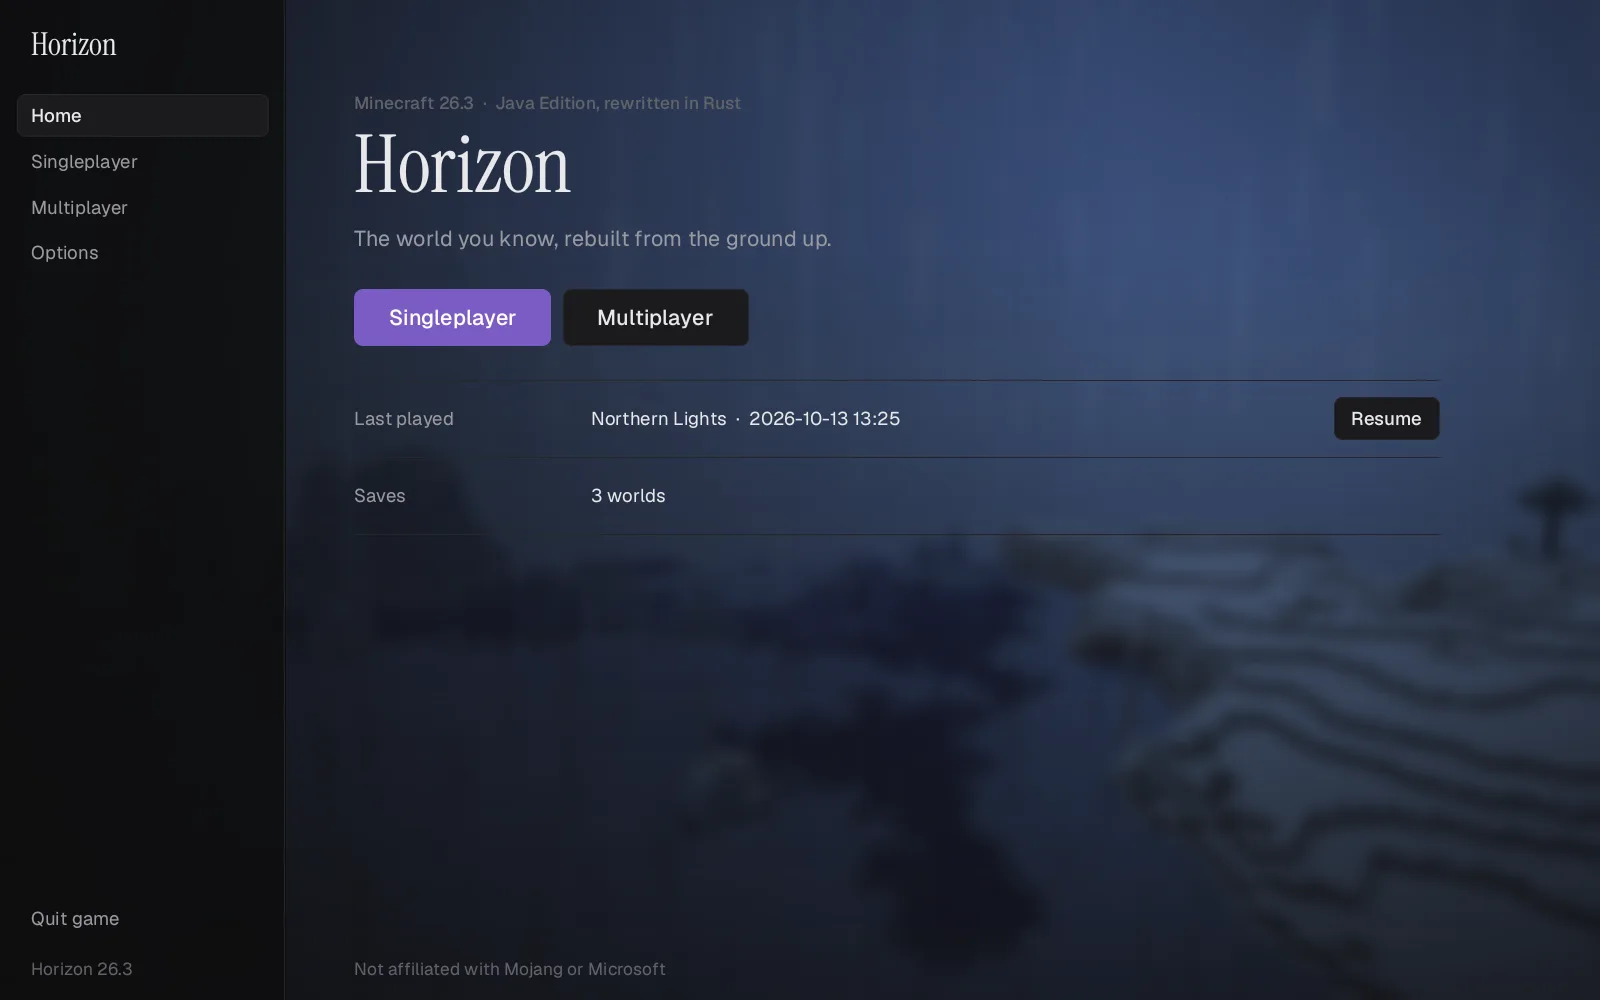
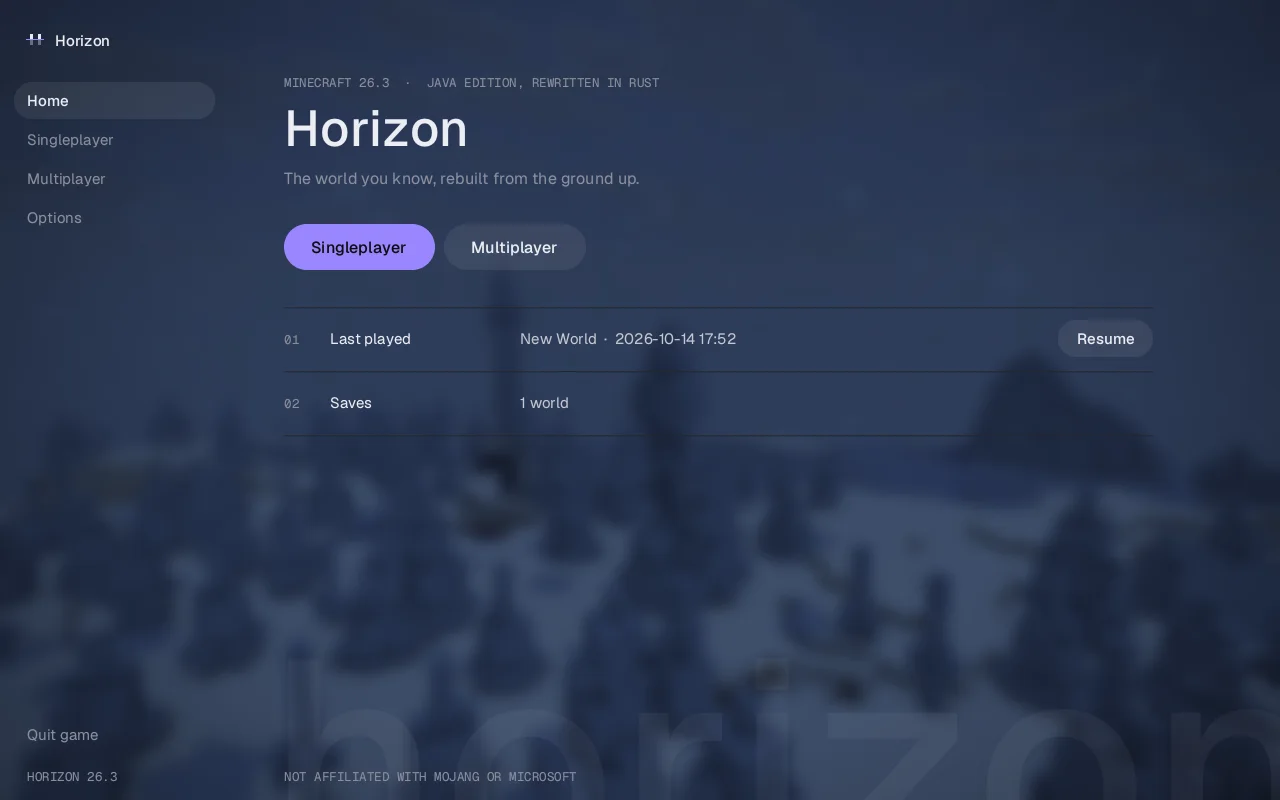
Show the new launcher and menus on the website and in the README
The README banner is redrawn in the new design (docs/media/banner.html), and the launcher and
menu screenshots (README and website) are the restyled ones. The website's launcher section
gains a Launcher tab: its screenshots no longer show the old background, whose licence was
never confirmed.

diff --git a/website/src/index.html b/website/src/index.html
@@ -175,18 +175,20 @@
           <div class="screens reveal-media">
             <div class="tabs" role="tablist" aria-label="Horizon's menus">
               <span class="tab-pill" aria-hidden="true"></span>
-              <button type="button" role="tab" id="tab-title" aria-controls="screen-title" aria-selected="true">Title</button>
+              <button type="button" role="tab" id="tab-launcher" aria-controls="screen-launcher" aria-selected="true">Launcher</button>
+              <button type="button" role="tab" id="tab-title" aria-controls="screen-title" aria-selected="false" tabindex="-1">Title</button>
               <button type="button" role="tab" id="tab-worlds" aria-controls="screen-worlds" aria-selected="false" tabindex="-1">Worlds</button>
               <button type="button" role="tab" id="tab-settings" aria-controls="screen-settings" aria-selected="false" tabindex="-1">Settings</button>
               <button type="button" role="tab" id="tab-pause" aria-controls="screen-pause" aria-selected="false" tabindex="-1">Pause</button>
             </div>
             <div class="screen">
-              <div class="screen-panel is-active" role="tabpanel" id="screen-title" aria-labelledby="tab-title"><img loading="lazy" decoding="async" src="/media/menu-title-800.webp" srcset="/media/menu-title-800.webp 800w, /media/menu-title.webp 1600w" sizes="(min-width: 1000px) 720px, 92vw" width="1600" height="1000" alt="Horizon's title screen: a sidebar, the Horizon title, Singleplayer and Multiplayer buttons and the last world played, over a blurred frozen landscape"></div>
-              <div class="screen-panel" role="tabpanel" id="screen-worlds" aria-labelledby="tab-worlds"><img loading="lazy" decoding="async" src="/media/menu-worlds-800.webp" srcset="/media/menu-worlds-800.webp 800w, /media/menu-worlds.webp 1600w" sizes="(min-width: 1000px) 720px, 92vw" width="1600" height="1000" alt="The Singleplayer page: three worlds with their dates and game modes, and Create world and Play buttons"></div>
-              <div class="screen-panel" role="tabpanel" id="screen-settings" aria-labelledby="tab-settings"><img loading="lazy" decoding="async" src="/media/settings-800.webp" srcset="/media/settings-800.webp 800w, /media/settings.webp 1600w" sizes="(min-width: 1000px) 720px, 92vw" width="1600" height="1000" alt="The Video settings in their Simple view: a preset, render distance, field of view, framerate, VSync and GUI scale, each with what it costs"></div>
-              <div class="screen-panel" role="tabpanel" id="screen-pause" aria-labelledby="tab-pause"><img loading="lazy" decoding="async" src="/media/menu-pause-800.webp" srcset="/media/menu-pause-800.webp 800w, /media/menu-pause.webp 1600w" sizes="(min-width: 1000px) 720px, 92vw" width="1600" height="1000" alt="The pause screen of the world Glacier Pass, with Back to game, Open to LAN and Save and quit"></div>
+              <div class="screen-panel is-active" role="tabpanel" id="screen-launcher" aria-labelledby="tab-launcher"><img loading="lazy" decoding="async" src="/media/launcher-800.webp" srcset="/media/launcher-800.webp 800w, /media/launcher.webp 1280w" sizes="(min-width: 1000px) 720px, 92vw" width="1280" height="800" alt="The launcher's Play page: the version, Client and Server, the version picker and Play, the prepared resources and the Minecraft folder as a numbered list"></div>
+              <div class="screen-panel" role="tabpanel" id="screen-title" aria-labelledby="tab-title"><img loading="lazy" decoding="async" src="/media/menu-title-800.webp" srcset="/media/menu-title-800.webp 800w, /media/menu-title.webp 1280w" sizes="(min-width: 1000px) 720px, 92vw" width="1280" height="800" alt="Horizon's title screen: the mark and the pages on the left, the Horizon title, Singleplayer and Multiplayer, the last world played, over a veiled snowy landscape"></div>
+              <div class="screen-panel" role="tabpanel" id="screen-worlds" aria-labelledby="tab-worlds"><img loading="lazy" decoding="async" src="/media/menu-worlds-800.webp" srcset="/media/menu-worlds-800.webp 800w, /media/menu-worlds.webp 1280w" sizes="(min-width: 1000px) 720px, 92vw" width="1280" height="800" alt="The Singleplayer page: the worlds as a numbered list with their dates and game modes, and Create world and Play"></div>
+              <div class="screen-panel" role="tabpanel" id="screen-settings" aria-labelledby="tab-settings"><img loading="lazy" decoding="async" src="/media/settings-800.webp" srcset="/media/settings-800.webp 800w, /media/settings.webp 1280w" sizes="(min-width: 1000px) 720px, 92vw" width="1280" height="800" alt="The Video settings in their Simple view: a preset, render distance, field of view, framerate, VSync and GUI scale, each with what it costs"></div>
+              <div class="screen-panel" role="tabpanel" id="screen-pause" aria-labelledby="tab-pause"><img loading="lazy" decoding="async" src="/media/menu-pause-800.webp" srcset="/media/menu-pause-800.webp 800w, /media/menu-pause.webp 1280w" sizes="(min-width: 1000px) 720px, 92vw" width="1280" height="800" alt="The pause screen of a world, with Back to game, Open to LAN and Save and quit"></div>
             </div>
-            <p class="screen-caption">Horizon's own menus, in the game. The launcher opens them, or vanilla's.</p>
+            <p class="screen-caption">The launcher, and Horizon's own menus in the game. The launcher opens them, or vanilla's.</p>
           </div>
         </div>
       </section>

diff --git a/docs/media/banner.html b/docs/media/banner.html
@@ -1,21 +1,21 @@
 <!doctype html>
-<!-- The README banner. From the repository root: npx -y playwright screenshot --viewport-size=1600,480 "file://$PWD/docs/media/banner.html" banner.png, then convert it to WebP (e.g. ffmpeg -i banner.png -c:v libwebp -quality 88 docs/media/banner.webp). -->
-<html><head><meta charset="utf-8"><style>
-@font-face { font-family: "Instrument Serif"; src: url("../../website/public/fonts/InstrumentSerif-Regular.woff2"); }
-@font-face { font-family: "Geist"; src: url("../../website/public/fonts/Geist-Regular.woff2"); }
-html, body { margin: 0; width: 1600px; height: 480px; overflow: hidden; background: #111113; }
-.card { position: absolute; inset: 0; overflow: hidden; background: #111113; color: #e8e8ea; font-family: "Geist"; }
-.bg { position: absolute; inset: 0; background:
-  linear-gradient(90deg, #111113 0%, rgba(17,17,19,.92) 30%, rgba(17,17,19,.35) 62%, rgba(17,17,19,.15) 100%),
-  linear-gradient(180deg, rgba(17,17,19,0) 55%, rgba(17,17,19,.85) 100%),
-  linear-gradient(180deg, rgba(62,40,120,.30), rgba(62,40,120,0) 60%), radial-gradient(ellipse 60% 90% at 18% 110%, rgba(124,92,214,.42), rgba(124,92,214,0) 70%),
-  url("../../website/public/media/hero.webp") 60% 38% / 1600px auto no-repeat; }
-.glow { position: absolute; left: 0; right: 0; bottom: 0; height: 2px; background: linear-gradient(90deg, rgba(139,108,232,0), #8b6ce8 25%, rgba(139,108,232,0) 70%); }
-main { position: absolute; left: 88px; top: 86px; }
-.eyebrow { margin: 0 0 6px; font-size: 24px; color: rgba(232,232,234,.62); letter-spacing: .01em; }
-.eyebrow b { color: #a993f5; font-weight: 400; }
-h1 { margin: 0; font: 400 188px/0.95 "Instrument Serif"; letter-spacing: -0.035em; color: #f5f5f6; }
-.line { margin: 22px 0 0; font-size: 28px; line-height: 1.4; color: rgba(232,232,234,.86); max-width: 720px; }
-</style></head><body><div class="card"><div class="bg"></div><div class="glow"></div>
-<main><p class="eyebrow">Minecraft: Java Edition 26.3 <b>·</b> rewritten in Rust</p><h1>Horizon</h1>
-<p class="line">Checked against vanilla by 281 differential harnesses.</p></main></div></body></html>
+<!-- README banner (docs/media/banner.webp), 1600x480, in the design of docs/design-system.md.
+     Rendered with Playwright from website/ (see docs/media/brand/README.md). -->
+<meta charset="utf-8"><style>
+@font-face{font-family:Geist;src:url(../../website/public/fonts/Geist-Regular.woff2);font-weight:400}
+@font-face{font-family:Geist;src:url(../../website/public/fonts/Geist-Medium.woff2);font-weight:500}
+@font-face{font-family:"Geist Mono";src:url(../../website/public/fonts/GeistMono-Regular.woff2)}
+html,body{margin:0;width:1600px;height:480px;overflow:hidden;background:#0d0e13;color:#ecedf3;font-family:Geist}
+main{position:relative;height:100%;padding:56px 72px;box-sizing:border-box}
+.top{display:flex;align-items:center;gap:12px;font-size:20px;font-weight:500}
+.top img{width:30px}
+.top span{margin-left:auto;font:15px "Geist Mono";color:#8b8f9c;letter-spacing:.04em}
+h1{margin:56px 0 0;font-weight:500;font-size:64px;line-height:1.05;letter-spacing:-.025em}
+p{margin:20px 0 0;color:#8b8f9c;font-size:22px;line-height:1.5;max-width:52ch}
+.word{position:absolute;right:56px;bottom:-70px;font-weight:500;font-size:330px;letter-spacing:-.04em;line-height:.8;color:#181a22}
+</style><main>
+<div class="word" aria-hidden="true">horizon</div>
+<div class="top"><img src="brand/icon.svg" alt="">Horizon<span>MINECRAFT: JAVA EDITION 26.3 · RUST</span></div>
+<h1>The game you know, rebuilt in Rust.</h1>
+<p>The 26.3 client and its game logic, checked against vanilla by 281 differential harnesses.</p>
+</main>

diff --git a/README.md b/README.md
@@ -47,8 +47,8 @@ Horizon is downloaded only through **the Horizon launcher**: get it from [playho
 
 <table>
   <tr>
-    <td width="50%"><img src="docs/media/launcher-play.webp" alt="The launcher's Play page: v2026.10.13.1 ready to play, its summary, Client and Server, the Play button and prepared resources"></td>
-    <td width="50%"><img src="docs/media/launcher-patch-notes.webp" alt="The launcher's Patch notes page, showing the notes of Horizon 2026.10.13.1"></td>
+    <td width="50%"><img src="docs/media/launcher-play.webp" alt="The launcher's Play page: v2026.10.14.1 ready to play, its summary, Client and Server, the version picker and Play, the resources and the Minecraft folder as a numbered list"></td>
+    <td width="50%"><img src="docs/media/launcher-patch-notes.webp" alt="The launcher's Patch notes page, showing the notes of Horizon 2026.10.14.1"></td>
   </tr>
 </table>
 
@@ -62,7 +62,7 @@ Captured in the Rust client itself, with vanilla assets and no mods or shaders.
 
 <table>
   <tr>
-    <td colspan="2"><img src="docs/media/menu-title.webp" alt="Horizon's title screen: a sidebar, the Horizon title, Singleplayer and Multiplayer buttons and the last world played, over a blurred frozen landscape"></td>
+    <td colspan="2"><img src="docs/media/menu-title.webp" alt="Horizon's title screen: the mark and the pages on the left, the Horizon title, Singleplayer and Multiplayer, and the last world played, over a veiled snowy landscape"></td>
   </tr>
   <tr>
     <td width="50%"><img src="docs/media/menu-worlds.webp" alt="The Singleplayer page: three worlds with their dates and game modes, and Create world and Play buttons"></td>

diff --git a/website/LEGAL.md b/website/LEGAL.md
@@ -52,6 +52,7 @@ and 800 pixels wide by `scripts/assets.mjs`.
 | `menu-worlds*.webp` | `docs/media/menu-worlds.png` | Horizon's own world list |
 | `menu-options*.webp` | `docs/media/menu-options.png` | Horizon's own options screen |
 | `menu-pause*.webp` | `docs/media/menu-pause.png` | Horizon's own pause screen |
+| `launcher*.webp` | `docs/media/launcher-play.png` | The Horizon launcher's Play page (no background image) |
 | `settings*.webp` | `docs/media/settings-simple.png` | Horizon's own Video settings, Simple view |
 | `hero*.webp`, `sunset*.webp`, `village*.webp`, `survival*.webp`, `nether*.webp`, `night*.webp`, `underwater*.webp` | `docs/media/*.jpg` | In-game views; none shows a Mojang logo or splash text |
 
